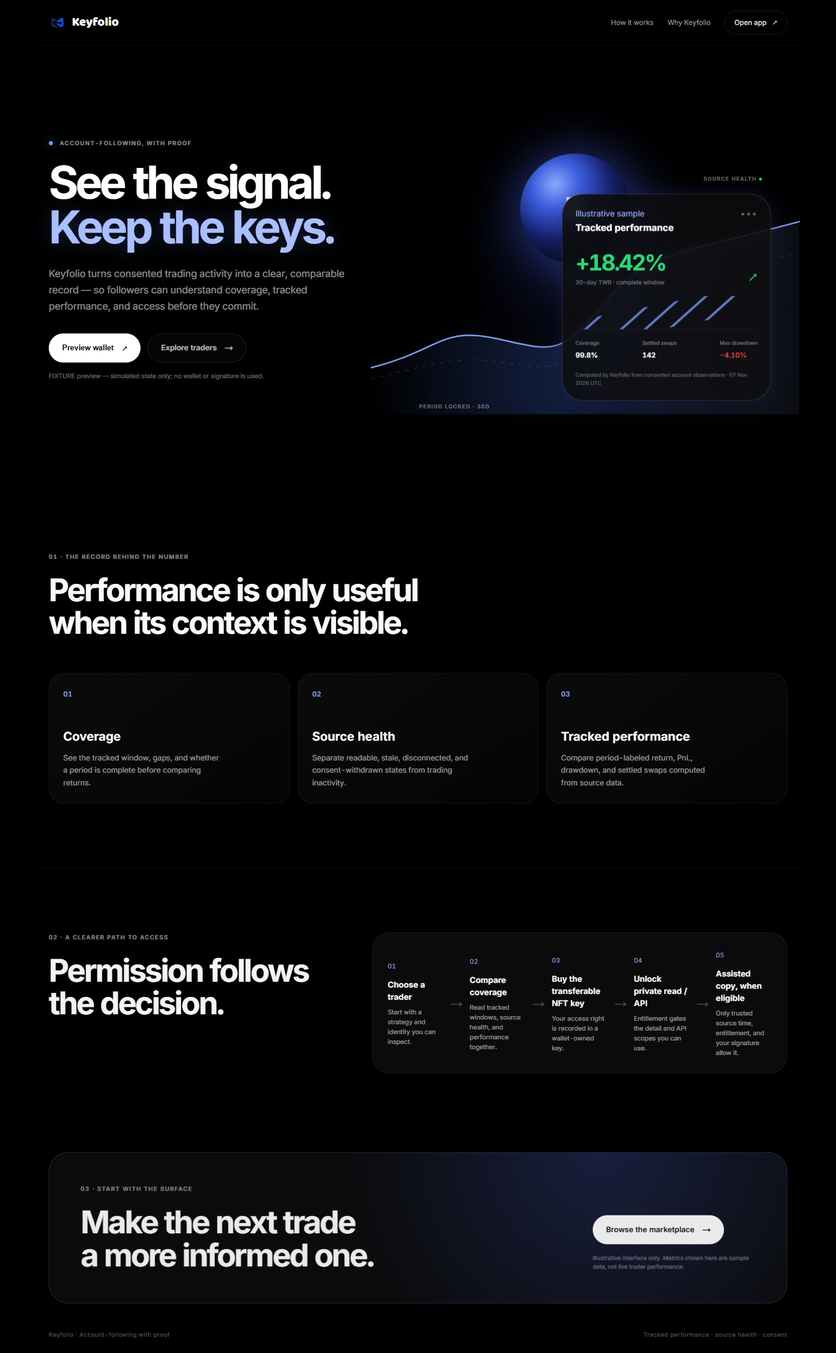
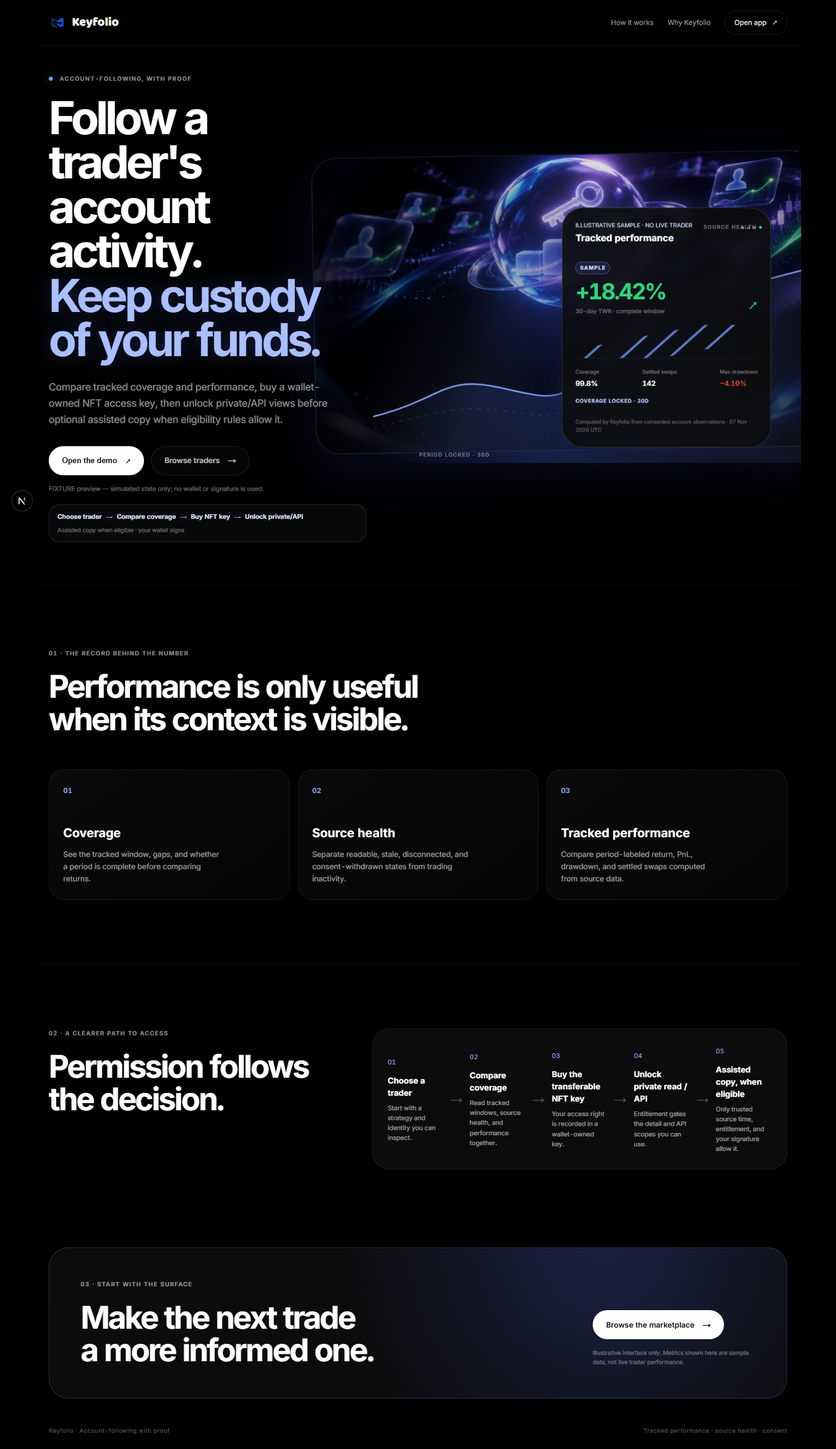
feat(landing): revise hero story and motion for judge clarity

diff --git a/apps/landing/src/components/LandingClient.tsx b/apps/landing/src/components/LandingClient.tsx
@@ -1,12 +1,13 @@
 'use client';
 
-import { useEffect, useState } from 'react';
+import { useEffect, useRef, useState } from 'react';
 import { getLandingWalletState, type LandingMode } from './landingContract';
 import { useWallet } from '../wallet/WalletContext';
 
 export function LandingClient({ mode, configError }: { mode: LandingMode; configError: string | null }) {
   const wallet = useWallet();
   const [fixturePreview, setFixturePreview] = useState(false);
+  const heroVisualRef = useRef<HTMLDivElement>(null);
   useEffect(() => {
     document.querySelector('.landing')?.classList.add('motion-ready');
     const nodes = Array.from(document.querySelectorAll<HTMLElement>('.landing .reveal'));
@@ -18,6 +19,40 @@ export function LandingClient({ mode, configError }: { mode: LandingMode; config
     return () => {
       observer.disconnect();
       document.querySelector('.landing')?.classList.remove('motion-ready');
+    };
+  }, []);
+  useEffect(() => {
+    const visual = heroVisualRef.current;
+    if (!visual || window.matchMedia('(prefers-reduced-motion: reduce)').matches) return;
+    let frame = 0;
+    let pointerX = 0;
+    let pointerY = 0;
+    let scrollY = window.scrollY;
+    const apply = () => {
+      frame = 0;
+      const rect = visual.getBoundingClientRect();
+      const centerX = rect.left + rect.width / 2;
+      const centerY = rect.top + rect.height / 2;
+      const x = Math.max(-1, Math.min(1, (pointerX - centerX) / Math.max(rect.width / 2, 1)));
+      const y = Math.max(-1, Math.min(1, (pointerY - centerY) / Math.max(rect.height / 2, 1)));
+      const scrollOffset = Math.max(-1, Math.min(1, (scrollY - window.innerHeight * 0.12) / Math.max(window.innerHeight, 1)));
+      visual.style.setProperty('--hero-parallax-x', `${(x * 10).toFixed(2)}px`);
+      visual.style.setProperty('--hero-parallax-y', `${(y * 8 - scrollOffset * 5).toFixed(2)}px`);
+      visual.style.setProperty('--hero-parallax-rotate', `${(x * 1.2).toFixed(2)}deg`);
+    };
+    const schedule = () => { if (!frame) frame = window.requestAnimationFrame(apply); };
+    const onPointerMove = (event: PointerEvent) => { pointerX = event.clientX; pointerY = event.clientY; schedule(); };
+    const onPointerLeave = () => { pointerX = window.innerWidth / 2; pointerY = window.innerHeight / 2; schedule(); };
+    const onScroll = () => { scrollY = window.scrollY; schedule(); };
+    visual.addEventListener('pointermove', onPointerMove, { passive: true });
+    visual.addEventListener('pointerleave', onPointerLeave, { passive: true });
+    window.addEventListener('scroll', onScroll, { passive: true });
+    onPointerLeave();
+    return () => {
+      if (frame) window.cancelAnimationFrame(frame);
+      visual.removeEventListener('pointermove', onPointerMove);
+      visual.removeEventListener('pointerleave', onPointerLeave);
+      window.removeEventListener('scroll', onScroll);
     };
   }, []);
   const walletState = getLandingWalletState(mode, { connecting: wallet.connecting, accountId: wallet.accountId, initError: wallet.initError, fixturePreview, configError });
@@ -43,13 +78,14 @@ export function LandingClient({ mode, configError }: { mode: LandingMode; config
       <section id="top" className="landing-hero" aria-labelledby="landing-title">
         <div className="hero-copy reveal reveal-one">
           <p className="landing-kicker"><span className="kicker-dot" aria-hidden="true" /> Account-following, with proof</p>
-          <h1 id="landing-title">See the signal.<br /><span>Keep the keys.</span></h1>
-          <p className="hero-lede">Keyfolio turns consented trading activity into a clear, comparable record — so followers can understand coverage, tracked performance, and access before they commit.</p>
-          <div className="hero-actions"><button className="landing-btn landing-btn-primary" type="button" onClick={handleConnect} disabled={!walletState.canAct} aria-describedby="wallet-state">{walletState.label}<span aria-hidden="true">↗</span></button><a className="landing-btn landing-btn-quiet" href={appHref}>Explore traders <span aria-hidden="true">→</span></a></div>
+          <h1 id="landing-title">Follow a trader's account activity.<br /><span>Keep custody of your funds.</span></h1>
+          <p className="hero-lede">Compare tracked coverage and performance, buy a wallet-owned NFT access key, then unlock private/API views before optional assisted copy when eligibility rules allow it.</p>
+          <div className="hero-actions"><button className="landing-btn landing-btn-primary" type="button" onClick={handleConnect} disabled={!walletState.canAct} aria-describedby="wallet-state">{mode === 'FIXTURE' ? (fixturePreview ? 'Demo opened' : 'Open the demo') : walletState.label}<span aria-hidden="true">↗</span></button><a className="landing-btn landing-btn-quiet" href={appHref}>Browse traders <span aria-hidden="true">→</span></a></div>
           <p id="wallet-state" className="wallet-state" role="status">{walletState.message}</p>
+          <div className="hero-scenario" aria-label="Keyfolio decision path"><span>Choose trader</span><i aria-hidden="true">→</i><span>Compare coverage</span><i aria-hidden="true">→</i><span>Buy NFT key</span><i aria-hidden="true">→</i><span>Unlock private/API</span><small>Assisted copy when eligible · your wallet signs</small></div>
           {mode === 'TESTNET' && wallet.accountId ? <button className="wallet-signout" type="button" onClick={() => void wallet.signOut()}>Sign out</button> : null}
         </div>
-        <div className="hero-visual reveal reveal-two" aria-label="Illustrative tracked performance card"><div className="orb-aura" aria-hidden="true" /><div className="orb-core" aria-hidden="true"><span>K</span></div><svg className="equity-ribbon" viewBox="0 0 720 360" role="img" aria-label="Illustrative equity ribbon rising over a tracked window"><defs><linearGradient id="ribbon-fill" x1="0" x2="1"><stop offset="0" stopColor="#4a7dff" stopOpacity="0" /><stop offset=".5" stopColor="#4a7dff" stopOpacity=".28" /><stop offset="1" stopColor="#9cb7ff" stopOpacity=".08" /></linearGradient></defs><path d="M20 286 C130 258 130 220 220 240 S320 268 390 184 S500 108 700 54 L700 360 L20 360Z" fill="url(#ribbon-fill)" /><path d="M20 286 C130 258 130 220 220 240 S320 268 390 184 S500 108 700 54" fill="none" stroke="#8aa9ff" strokeWidth="2.5" strokeLinecap="round" /><path d="M20 304 C120 280 160 266 232 278 S330 290 404 222 S520 148 700 102" fill="none" stroke="#fff" strokeOpacity=".18" strokeWidth="1" strokeDasharray="5 9" /></svg><article className="tracked-card"><div className="tracked-card-head"><div><p className="eyebrow">Illustrative sample</p><h2>Tracked performance</h2></div><span className="card-menu" aria-hidden="true">•••</span></div><div className="tracked-main"><div><span className="tracked-value">+18.42%</span><span className="tracked-period">30-day TWR · complete window</span></div><span className="tracked-up">↗</span></div><div className="mini-chart" aria-hidden="true"><span className="mini-line" /></div><dl className="tracked-stats"><div><dt>Coverage</dt><dd>99.8%</dd></div><div><dt>Settled swaps</dt><dd>142</dd></div><div><dt>Max drawdown</dt><dd className="pnl-down">−4.10%</dd></div></dl><p className="card-foot">Computed by Keyfolio from consented account observations · 07 Nov 2026 UTC</p></article><span className="visual-label label-top">SOURCE HEALTH <b>●</b></span><span className="visual-label label-bottom">PERIOD LOCKED · 30D</span></div>
+        <div ref={heroVisualRef} className="hero-visual reveal reveal-two" aria-label="Illustrative tracked performance card over generated Keyfolio visual"><div className="hero-art-frame"><img className="hero-art" src="/hero-keyfolio.png" alt="Illustrative Keyfolio key, trader profiles, and tracked market paths" width="1672" height="941" fetchPriority="high" decoding="async" /><span className="hero-art-sheen" aria-hidden="true" /></div><div className="orb-aura" aria-hidden="true" /><svg className="equity-ribbon" viewBox="0 0 720 360" role="img" aria-label="Illustrative equity ribbon rising over a tracked window"><defs><linearGradient id="ribbon-fill" x1="0" x2="1"><stop offset="0" stopColor="#4a7dff" stopOpacity="0" /><stop offset=".5" stopColor="#4a7dff" stopOpacity=".28" /><stop offset="1" stopColor="#9cb7ff" stopOpacity=".08" /></linearGradient></defs><path d="M20 286 C130 258 130 220 220 240 S320 268 390 184 S500 108 700 54 L700 360 L20 360Z" fill="url(#ribbon-fill)" /><path d="M20 286 C130 258 130 220 220 240 S320 268 390 184 S500 108 700 54" fill="none" stroke="#8aa9ff" strokeWidth="2.5" strokeLinecap="round" /><path d="M20 304 C120 280 160 266 232 278 S330 290 404 222 S520 148 700 102" fill="none" stroke="#fff" strokeOpacity=".18" strokeWidth="1" strokeDasharray="5 9" /></svg><article className="tracked-card"><div className="tracked-card-head"><div><p className="eyebrow sample-label">ILLUSTRATIVE SAMPLE · NO LIVE TRADER</p><h2>Tracked performance</h2></div><span className="card-menu" aria-hidden="true">•••</span></div><div className="tracked-main"><div><span className="sample-badge">SAMPLE</span><span className="tracked-value">+18.42%</span><span className="tracked-period">30-day TWR · complete window</span></div><span className="tracked-up">↗</span></div><div className="mini-chart" aria-hidden="true"><span className="mini-line" /></div><dl className="tracked-stats"><div><dt>Coverage</dt><dd>99.8%</dd></div><div><dt>Settled swaps</dt><dd>142</dd></div><div><dt>Max drawdown</dt><dd className="pnl-down">−4.10%</dd></div></dl><div className="scenario-motion" aria-label="Illustrative product state sequence"><span className="motion-state source-state"><b>●</b> SOURCE OBSERVING</span><span className="motion-state coverage-state">COVERAGE LOCKED · 30D</span><span className="motion-state key-state">ACCESS KEY · PRIVATE/API UNLOCKED</span></div><p className="card-foot">Computed by Keyfolio from consented account observations · 07 Nov 2026 UTC</p></article><span className="visual-label label-top">SOURCE HEALTH <b>●</b></span><span className="visual-label label-bottom">PERIOD LOCKED · 30D</span></div>
       </section>
       <section id="trust" className="landing-section intro-section reveal reveal-three" aria-labelledby="measure-title"><div className="section-heading"><p className="landing-kicker">01 · The record behind the number</p><h2 id="measure-title">Performance is only useful<br />when its context is visible.</h2></div><div className="measure-grid"><article><span className="measure-index">01</span><h3>Coverage</h3><p>See the tracked window, gaps, and whether a period is complete before comparing returns.</p></article><article><span className="measure-index">02</span><h3>Source health</h3><p>Separate readable, stale, disconnected, and consent-withdrawn states from trading inactivity.</p></article><article><span className="measure-index">03</span><h3>Tracked performance</h3><p>Compare period-labeled return, PnL, drawdown, and settled swaps computed from source data.</p></article></div></section>
       <section id="how-it-works" className="landing-section access-section reveal reveal-four" aria-labelledby="access-title"><div className="section-heading"><p className="landing-kicker">02 · A clearer path to access</p><h2 id="access-title">Permission follows<br />the decision.</h2></div><div className="access-flow"><div className="flow-step"><span>01</span><strong>Choose a trader</strong><p>Start with a strategy and identity you can inspect.</p></div><div className="flow-connector" aria-hidden="true">→</div><div className="flow-step"><span>02</span><strong>Compare coverage</strong><p>Read tracked windows, source health, and performance together.</p></div><div className="flow-connector" aria-hidden="true">→</div><div className="flow-step"><span>03</span><strong>Buy the transferable NFT key</strong><p>Your access right is recorded in a wallet-owned key.</p></div><div className="flow-connector" aria-hidden="true">→</div><div className="flow-step"><span>04</span><strong>Unlock private read / API</strong><p>Entitlement gates the detail and API scopes you can use.</p></div><div className="flow-connector" aria-hidden="true">→</div><div className="flow-step"><span>05</span><strong>Assisted copy, when eligible</strong><p>Only trusted source time, entitlement, and your signature allow it.</p></div></div></section>

diff --git a/apps/landing/src/app/globals.css b/apps/landing/src/app/globals.css
@@ -41,6 +41,10 @@ a { color:inherit; text-decoration:none; }
 .hero-copy h1 span { color: #aabfff; text-shadow: 0 0 34px rgba(91,124,255,.25); }
 .hero-lede { max-width: 520px; margin: 28px 0 0; color: var(--ink55); font-size: 17px; line-height: 1.65; letter-spacing: -.01em; }
 .hero-actions { display: flex; gap: 12px; flex-wrap: wrap; margin-top: 32px; }
+.hero-scenario { display: flex; flex-wrap: wrap; align-items: center; gap: 7px; max-width: 620px; margin-top: 18px; padding: 12px 14px; border: 1px solid rgba(151,170,255,.18); border-radius: 18px; background: rgba(12,12,13,.72); color: var(--ink70); font-size: 11px; line-height: 16px; }
+.hero-scenario span { color: #dce5ff; font-weight: 650; }
+.hero-scenario i { color: #829bff; font-style: normal; }
+.hero-scenario small { flex-basis: 100%; color: var(--ink38); font-size: 10px; }
 .landing-btn { min-height: 50px; display: inline-flex; align-items: center; justify-content: center; gap: 14px; padding: 0 22px; border-radius: 30px; font-size: 13px; font-weight: 600; border: 1px solid transparent; transition: transform .18s ease-out, background .18s ease-out, border-color .18s ease-out, opacity .18s ease-out; }
 .landing-btn:hover { transform: translateY(-2px); }
 .landing-btn:disabled { cursor: not-allowed; opacity: .58; transform: none; }
@@ -50,14 +54,19 @@ a { color:inherit; text-decoration:none; }
 .landing-btn-quiet:hover { border-color: rgba(255,255,255,.2); background: rgba(255,255,255,.06); }
 .wallet-state { min-height: 18px; margin: 14px 0 0; color: var(--ink38); font-size: 11px; line-height: 18px; }
 .wallet-signout { border: 0; padding: 0; background: none; color: var(--ink70); font: inherit; font-size: 11px; text-decoration: underline; cursor: pointer; }
-.hero-visual { min-height: 540px; position: relative; isolation: isolate; }
+.hero-visual { --hero-parallax-x: 0px; --hero-parallax-y: 0px; --hero-parallax-rotate: 0deg; min-height: 540px; position: relative; isolation: isolate; }
+.hero-art-frame { position: absolute; inset: 2% -10% 5% -15%; overflow: hidden; border: 1px solid rgba(151,170,255,.18); border-radius: 42px; background: #070817; box-shadow: 0 30px 90px rgba(27,38,121,.24), inset 0 0 0 1px rgba(255,255,255,.035); transform: translate3d(var(--hero-parallax-x), var(--hero-parallax-y), 0) rotate(var(--hero-parallax-rotate)) scale(1.015); will-change: transform; }
+.hero-art-frame::after { content: ''; position: absolute; inset: 0; pointer-events: none; background: linear-gradient(90deg, rgba(0,0,0,.86) 0%, rgba(0,0,0,.46) 21%, rgba(2,4,24,.08) 52%, rgba(3,3,14,.34) 100%), linear-gradient(180deg, rgba(0,0,0,.06) 0%, rgba(0,0,0,.04) 48%, rgba(0,0,0,.82) 100%); }
+.hero-art { display: block; width: 100%; height: 100%; object-fit: cover; object-position: 50% 33%; transform: scale(1.06) translateZ(0); filter: saturate(.92) contrast(1.04); }
+.hero-art-sheen { position: absolute; z-index: 1; inset: 0; pointer-events: none; background: linear-gradient(115deg, transparent 24%, rgba(177,190,255,.14) 42%, transparent 58%); mix-blend-mode: screen; opacity: .5; transform: translate3d(calc(var(--hero-parallax-x) * -.35), calc(var(--hero-parallax-y) * -.35), 0); will-change: transform; }
 .orb-aura { position: absolute; width: 480px; height: 480px; top: 4%; left: 16%; border-radius: 50%; background: radial-gradient(circle, rgba(65,100,255,.4) 0, rgba(40,58,168,.2) 32%, rgba(14,17,49,.06) 62%, transparent 72%); filter: blur(14px); transform: translateZ(0); animation: aura-breathe 7s ease-in-out infinite alternate; }
-.orb-core { position: absolute; width: 190px; height: 190px; top: 15%; left: 34%; display: grid; place-items: center; border-radius: 50%; color: rgba(255,255,255,.88); font-size: 52px; font-weight: 700; background: radial-gradient(circle at 32% 28%, #8eaaff 0, #3e61e5 22%, #1d2b8c 48%, #0b103d 76%, #050616 100%); box-shadow: 0 0 80px rgba(76,104,255,.5), inset -18px -24px 50px rgba(0,0,0,.5); transform: translateZ(0); animation: orb-float 6s ease-in-out infinite alternate; }
-.equity-ribbon { position: absolute; width: 112%; height: auto; top: 27%; left: -6%; opacity: .9; transform: translateZ(0); filter: drop-shadow(0 0 20px rgba(88,125,255,.18)); }
+.equity-ribbon { position: absolute; z-index: 1; width: 112%; height: auto; top: 27%; left: -6%; opacity: .9; transform: translate3d(calc(var(--hero-parallax-x) * -.5), calc(var(--hero-parallax-y) * -.5), 0) translateZ(0); filter: drop-shadow(0 0 20px rgba(88,125,255,.18)); will-change: transform; }
 .tracked-card { position: absolute; z-index: 2; right: 4%; bottom: 6%; width: min(360px, 72%); padding: 22px; border-radius: 36px; border: 1px solid rgba(255,255,255,.14); background: rgba(12,12,13,.9); box-shadow: 0 28px 70px rgba(0,0,0,.48), 0 0 34px rgba(77,102,255,.18); backdrop-filter: blur(10px); transform: translateZ(0); animation: card-float 7s ease-in-out infinite alternate; }
 .tracked-card-head, .tracked-main, .tracked-stats { display: flex; justify-content: space-between; gap: 12px; }
 .tracked-card h2 { margin: 3px 0 0; font-size: 16px; line-height: 22px; }
 .tracked-card .eyebrow { margin: 0; color: #93aaff; }
+.sample-label { font-size: 10px !important; color: #c9d5ff !important; }
+.sample-badge { display: inline-flex; align-items: center; min-height: 20px; margin-bottom: 8px; padding: 3px 7px; border: 1px solid rgba(151,170,255,.28); border-radius: 999px; color: #c9d5ff; background: rgba(82,108,230,.16); font-size: 9px; font-weight: 800; letter-spacing: .12em; }
 .card-menu { color: var(--ink38); letter-spacing: 2px; }
 .tracked-main { align-items: flex-end; margin-top: 28px; }
 .tracked-value { display: block; color: var(--up); font-size: 38px; line-height: 42px; letter-spacing: -.06em; font-weight: 700; }
@@ -70,6 +79,15 @@ a { color:inherit; text-decoration:none; }
 .tracked-stats dt { color: var(--ink38); font-size: 9px; }
 .tracked-stats dd { margin: 0; font-size: 12px; font-weight: 600; }
 .tracked-stats .pnl-down { color: var(--down); }
+.scenario-motion { position: relative; min-height: 18px; margin-top: 14px; overflow: hidden; color: #c9d5ff; font-size: 9px; font-weight: 700; letter-spacing: .06em; }
+.motion-state { position: absolute; inset: 0; display: block; opacity: 0; animation-duration: 4.5s; animation-timing-function: cubic-bezier(.2,0,0,1); animation-iteration-count: 1; animation-fill-mode: both; }
+.source-state { color: var(--ink55); animation-name: motion-source-state; }
+.source-state b { color: #e8c64a; }
+.coverage-state { color: #b8c5ff; animation-name: motion-coverage-state; }
+.key-state { color: var(--up); animation-name: motion-key-state; }
+@keyframes motion-source-state { 0%, 3% { opacity: 0; transform: translateY(8px); } 9%, 29% { opacity: 1; transform: translateY(0); } 36%, 100% { opacity: 0; transform: translateY(-6px); } }
+@keyframes motion-coverage-state { 0%, 30% { opacity: 0; transform: translateY(8px); } 38%, 62% { opacity: 1; transform: translateY(0); } 70%, 100% { opacity: 0; transform: translateY(-6px); } }
+@keyframes motion-key-state { 0%, 62% { opacity: 0; transform: translateY(8px); } 70%, 100% { opacity: 1; transform: translateY(0); } }
 .card-foot { margin: 18px 0 0; color: var(--ink30); font-size: 9px; line-height: 14px; }
 .visual-label { position: absolute; z-index: 3; color: var(--ink38); font-size: 9px; letter-spacing: .14em; font-weight: 600; }
 .visual-label b { color: var(--up); }
@@ -87,9 +105,9 @@ a { color:inherit; text-decoration:none; }
 @keyframes card-float { from { transform: translate3d(0, 5px, 0); } to { transform: translate3d(0, -7px, 0); } }
 @keyframes orb-float { from { transform: translate3d(0, 7px, 0); } to { transform: translate3d(0, -9px, 0); } }
 @keyframes aura-breathe { from { opacity: .7; transform: scale(.96) translateZ(0); } to { opacity: 1; transform: scale(1.04) translateZ(0); } }
-@media (prefers-reduced-motion: reduce) { *, *::before, *::after { animation-duration: .01ms !important; animation-iteration-count: 1 !important; scroll-behavior: auto !important; transition-duration: .01ms !important; } .landing-btn:hover { transform: none; } }
+@media (prefers-reduced-motion: reduce) { *, *::before, *::after { animation-duration: .01ms !important; animation-iteration-count: 1 !important; scroll-behavior: auto !important; transition-duration: .01ms !important; } .landing-btn:hover { transform: none; } .hero-art-frame { transform: none; } .hero-art-sheen { transform: none; } .equity-ribbon { transform: translateZ(0); } .scenario-motion .source-state { opacity: 1; transform: none; } .scenario-motion .coverage-state, .scenario-motion .key-state { opacity: 0; transform: none; } }
 @media (max-width: 1024px) { .landing-hero { grid-template-columns: 1fr; min-height: auto; padding-top: 68px; }.hero-copy { max-width: 720px; }.hero-visual { min-height: 510px; margin-top: -10px; }.access-section { grid-template-columns: 1fr; gap: 42px; }.access-flow { grid-template-columns: repeat(2, 1fr); }.flow-connector { display: none; } }
-@media (max-width: 640px) { .landing-nav { padding:16px 0; }.landing-nav nav a:not(.nav-cta) { display:none; }.landing-nav nav { gap:0; }.landing-hero { padding:42px 0 54px; }.hero-copy h1 { font-size: clamp(44px, 14vw, 62px); }.hero-lede { font-size:15px; line-height:1.55; }.hero-actions { display:grid; grid-template-columns:1fr; }.landing-btn { width:100%; }.hero-visual { min-height:390px; margin-top:12px; }.orb-aura { width:340px; height:340px; top:1%; left:4%; }.orb-core { width:132px; height:132px; left:31%; top:16%; font-size:36px; }.equity-ribbon { top:27%; width:130%; left:-15%; }.tracked-card { right:2%; bottom:2%; width:86%; padding:18px; border-radius:28px; }.tracked-value { font-size:31px; }.visual-label { display:none; }.landing-section { padding:76px 0; }.measure-grid { grid-template-columns:1fr; margin-top:34px; }.measure-grid article { min-height:auto; padding:21px; }.measure-grid h3 { margin-top:26px; }.access-flow { grid-template-columns:1fr; gap:24px; padding:22px; }.landing-cta { display:block; margin:0; padding:34px 22px; border-radius:28px; }.cta-actions { margin-top:28px; max-width:none; }.landing-footer { flex-direction:column; padding:24px 0; } }
+@media (max-width: 640px) { .landing-nav { padding:16px 0; }.landing-nav nav a:not(.nav-cta) { display:none; }.landing-nav nav { gap:0; }.landing-hero { padding:42px 0 54px; }.hero-copy h1 { font-size: clamp(44px, 14vw, 62px); }.hero-lede { font-size:15px; line-height:1.55; }.hero-actions { display:grid; grid-template-columns:1fr; }.landing-btn { width:100%; }.hero-scenario { font-size: 10px; gap: 5px; padding: 10px 11px; }.hero-scenario small { font-size: 9px; }.hero-visual { min-height:390px; margin-top:12px; }.hero-art-frame { inset: 2% -18% 4% -18%; border-radius: 30px; }.hero-art { object-position: 50% 31%; transform: scale(1.15) translateZ(0); }.orb-aura { width:340px; height:340px; top:1%; left:4%; }.equity-ribbon { top:27%; width:130%; left:-15%; }.tracked-card { right:2%; bottom:2%; width:86%; padding:18px; border-radius:28px; }.tracked-value { font-size:31px; }.visual-label { display:none; }.landing-section { padding:76px 0; }.measure-grid { grid-template-columns:1fr; margin-top:34px; }.measure-grid article { min-height:auto; padding:21px; }.measure-grid h3 { margin-top:26px; }.access-flow { grid-template-columns:1fr; gap:24px; padding:22px; }.landing-cta { display:block; margin:0; padding:34px 22px; border-radius:28px; }.cta-actions { margin-top:28px; max-width:none; }.landing-footer { flex-direction:column; padding:24px 0; } }
 /* Scroll reveal is stateful: without JS the page stays fully readable. */
 .landing .reveal { opacity: 1; }
 .landing.motion-ready .reveal { opacity: 0; }

diff --git a/docs/evidence/KF-08/landing-judge-review.md b/docs/evidence/KF-08/landing-judge-review.md
@@ -1,0 +1,178 @@
+# KF-08 Landing Judge Review
+
+**Review type:** blind senior hackathon landing-page judge review  
+**Decision:** **REVISE** before demo submission  
+**Review date:** 2026-11-10 (Asia/Jakarta)  
+**Scope:** `apps/landing`, extracted frames from the three supplied WebM recordings, the Xorr direct-capture PNGs in `docs/evidence/KF-08/`, `DESIGN.md`, and `docs/decisions.md`.
+
+## Judge verdict
+
+Keyfolio has a credible visual direction and a strong focal hero asset, but the landing currently sells the *feeling* of a tracked-performance product before it explains the complete product decision. A judge can see that it is polished, dark, and finance-oriented; they cannot reliably infer in the first five seconds that this is account-following with a wallet-owned access key, private/API entitlement, and optional follower-signed assisted copy. The hero is also held back by a measurable capture defect: the supplied motion recording is blank for roughly the first two seconds and blurred around the third second before the fully readable hero arrives.
+
+This is a **revision blocker**, not a visual-quality failure. The page should be kept and tightened rather than rejected outright.
+
+## Evidence and decoding
+
+All three supplied recordings decoded locally with a temporary FFmpeg binary obtained through `imageio-ffmpeg`; no source files were changed by that setup.
+
+| Recording | SHA-256 | Decoded stream | Duration | Frame observations |
+|---|---|---|---:|---|
[3 lines of base64/hex data omitted]
+
+The first extracted frame of Luora is also blank white, so the blank opening may be capture/page-readiness behavior rather than intended page design. It is nevertheless part of the supplied demo evidence and must be treated as a judge-visible risk until eliminated or replaced with a ready-state capture.
+
+No video was undecodable. The shell did not have `ffmpeg`/`ffprobe` preinstalled; the equivalent local decode and frame extraction succeeded with the temporary FFmpeg binary. The requested `docs/DESIGN.md` path does not exist in this checkout; the root `DESIGN.md` was used. No separate screenshot file for the user reference was present beyond the checked-in Xorr captures, so comparison to that context is limited to those captures and the supplied Luora recording.
+
+## Scorecard
+
+Scores are out of 10 for a hackathon judge watching the landing without repository context.
+
+| Criterion | Score | Judge observation |
+|---|---:|---|
+| First-five-second hook | **5** | The final hero is memorable, but the motion capture spends ~0–2 s blank and ~3 s blurred. The initial headline is poetic and only indirectly says what the product does. |
+| Problem clarity | **6** | “See the signal. Keep the keys.” is strong brand copy, but the problem (opaque trader activity and custody anxiety) is not explicit enough above the fold. |
+| Curiosity / retention | **7** | The key/globe artwork and floating card create a reason to continue. Retention falls when the page holds the same hero for several seconds without a meaningful state change. |
+| Scenario explanation | **4** | The five-step flow exists, but it appears after the hero and context section. The buyer journey is not understood during the first screen. |
+| Visual hierarchy | **8** | Clear 70/20/10 composition, strong type scale, one focal card, and good dark/cobalt contrast. The card and artwork compete slightly with the headline on mobile. |
+| Focal 3D / illustrative asset | **8** | The generated key/trader/globe artwork is distinctive and ownable. It reads as a product world rather than a generic dashboard screenshot. |
+| Motion cadence / meaning | **4** | The hero card/aura loops are attractive but decorative; the supplied capture does not show motion that explains navigation, focus, loading, or data state. The return to the hero around 14 s reads as capture looping rather than narrative closure. |
+| CTA / wallet clarity | **6** | There are two clear buttons and a fixture status line. “Preview wallet” in the captured fixture state is less decisive than a judge-facing “Open demo” or “Connect NEAR wallet”; the actual wallet mode is not self-evident from the hero alone. |
+| Mobile composition | **6** | The checked-in 390 px capture has no horizontal overflow, readable copy, and a first-viewport CTA. The large image/card occupies most of the next viewport and pushes the scenario below the fold. |
+| Reduced-motion fallback | **7** | The reduced capture keeps the hero and copy legible and removes the nonessential animated feel. The fallback still relies on long scroll progression, so the product story is not faster for a motion-sensitive judge. |
+| Honesty of sample metrics | **6** | “Illustrative sample” and the footer disclaimer are present. The dominant `+18.42%`, `99.8%`, and `142` still look like a live success claim at a glance, especially in a fast demo. |
+| Hackathon judge impact | **6** | Visually above average and memorable, but the product proof and demo path are under-explained. A judge may remember the artwork while misclassifying Keyfolio as a generic trading dashboard. |
+
+**Indicative mean: 6.1/10.** The recommendation is **REVISE**, with the first-five-second readiness and story placement treated as blockers.
+
+## Timestamped review notes
+
+### Keyfolio normal-motion recording
+
+- **0.0–2.0 s:** extracted frames are all-white/blank. This is the largest concrete demo risk. Whether it comes from browser readiness, capture timing, or the page's initial state, the judge experiences an empty opening.
+- **~3.0 s:** the navigation is present and the hero copy is visible but heavily blurred. The blur makes the first impression feel like a loading transition without a loading explanation.
+- **~4.0 s:** the hero becomes readable. The headline, key/globe artwork, equity ribbon, and tracked card form a strong single composition.
+- **~5.0–7.0 s:** the hero remains essentially the same. The card is legible, but the movement shown in the recording does not communicate what is changing in the tracked data or which user action is being demonstrated.
+- **~10.0 s:** “Performance is only useful when its context is visible” and the three cards (Coverage, Source health, Tracked performance) appear. This is the clearest explanation of the product's trust proposition, but it arrives too late to repair an ambiguous opening.
+- **~11.0–12.0 s:** “Permission follows the decision” and the five-step access flow are visible. This is the missing scenario explanation a judge needs, but the text is small at capture scale and the flow is below the first narrative beat.
+- **~13.0 s:** the final “Make the next trade a more informed one” CTA is visible. It is a good close, but the capture then returns to the hero by ~14 s, which weakens the sense of a completed story.
+
+### Reduced-motion recording
+
+- **~2.0–5.0 s:** the full hero is stable and readable. This is better for immediate comprehension than the normal-motion capture because the initial visual is not animated into place.
+- **~8.0 s:** the context cards and permission heading are visible. The page remains usable, but reduced motion does not change the information order; it only removes movement.
+- The fallback honors the design contract's reduced-motion requirement. It does not yet provide a condensed, faster story for someone who prefers reduced motion.
+
+### Luora comparison
+
+- **~3.0 s:** Luora uses a dark spatial transition before showing the product surface; the transition has a clear visual destination.
+- **~6.0 s:** the contract graph is the product, not merely decoration. It answers “what do I get?” through the artifact itself.
+- **~9.0 s:** “You can Run a scenario with one click” gives a concrete action and a visible result model. This is a stronger scenario beat than Keyfolio's abstract “See the signal.”
+- **~12.0 s:** the CLI section turns the visual into evidence. Luora repeatedly moves from promise to inspectable artifact; Keyfolio currently moves from promise to another explanatory section.
+
+### Xorr comparison
+
+The local Xorr captures establish a high bar for information density and state honesty. The marketplace visibly labels `FIXTURE`, “illustrative sample data,” coverage states, unavailable metrics, and sales-paused conditions. The profile makes period, coverage start, update time, package contents, privacy boundary, and “assisted-copy eligibility” concrete. The checkout shows exact term, price, token, network, storage, and simulated-signing state.
+
+Keyfolio's landing matches Xorr's dark language and rounded containment, and it is visually more distinctive. It does not yet carry the same level of immediate state specificity. The landing card's small disclaimer is technically present, but the visual emphasis is on a positive performance number rather than on the conditions that make that number trustworthy.
+
+## Concrete blockers
+
+1. **Blank/blurred opening in the normal-motion evidence.** A judge can see two empty seconds and one soft-focus second before the product appears.
+2. **Product category is under-specified above the fold.** “Account-following with proof” is present as a kicker, but the headline and lede do not explicitly state trader account activity, NFT access, private/API views, or follower-owned signing.
+3. **The core scenario is below the hero.** Choose trader → compare coverage → buy access key → unlock private/API → assisted copy is only explicit after scrolling.
+4. **Motion does not prove a product action.** Aura breathing, card float, and parallax create polish but do not show tracking, entitlement, or a wallet decision. This conflicts with the design contract's requirement that motion map to navigation, focus, loading, or data state.
+5. **Positive sample metrics dominate the honesty label.** `+18.42%`, `99.8%`, and `142` are the first things the eye reads. “Illustrative sample” is small and does not fully counter the implied claim in a fast judge pass.
+6. **Fixture CTA language is demo-ambiguous.** “Preview wallet” and “Explore traders” are understandable after reading the status line, but a live hackathon judge needs one obvious action and one obvious environment label.
+7. **Mobile makes the artwork the second hero.** The 390 px capture is technically clean, but the card dominates the first scroll and delays the scenario explanation.
+
+## Revision tickets
+
+### KF-08-LJ-01 — Make the first frame ready and readable
+
+**Priority:** blocker  
+**Exact change:** Ensure the captured/served first frame renders the final hero immediately. Remove the initial multi-second blank/blur reveal from the landing entry path; keep any reveal below 300 ms and use a dark ready-state placeholder with the headline and CTA already present while `hero-keyfolio.png` decodes. Preload the hero asset and capture only after the first contentful hero frame is present.  
+**Acceptance observation:** At 0.0–0.5 s, the judge sees the headline, one CTA, the environment label, and the focal artwork; no all-white frame; no multi-second blur.
+
+### KF-08-LJ-02 — Replace abstract hero copy with a two-line product promise
+
+**Priority:** blocker  
+**Exact copy proposal:**
+
+> **Follow a trader's account activity. Keep custody of your funds.**  
+> Compare tracked coverage and performance, buy a wallet-owned access key, and unlock private/API views before you choose to copy.
+
+Retain “See the signal. Keep the keys.” as the visual sub-line or section signature after the explicit promise.  
+**Acceptance observation:** A cold judge can answer “what is this?” and “who signs?” from the first viewport without scrolling.
+
+### KF-08-LJ-03 — Pull the five-step scenario into the hero
+
+**Priority:** blocker  
+**Layout change:** Add a compact four-step rail directly under the hero CTA or as a bottom strip in the hero: `Choose trader → Compare coverage → Buy NFT key → Unlock private/API`. Put `Assisted copy, when eligible` as a final muted note with “your wallet signs.” Keep the detailed five-card section below for the scroll narrative.  
+**Motion change:** On scroll into the strip, illuminate one step at a time with opacity/transform only; each transition must correspond to the step entering the viewport.
+
+### KF-08-LJ-04 — Turn motion into product evidence
+
+**Priority:** high  
+**Exact motion change:** Replace or supplement the idle card float/aura loop with a short 4–5 s sequence: source-health dot changes from `observing` to `complete`, the coverage label locks to `30D`, then the access-key badge appears and points to `Unlock private/API`. Keep parallax as optional cursor response, but it should not be the only visible motion. Stop the sequence after one pass; do not loop back to the hero in the judge capture.
+
+### KF-08-LJ-05 — Make sample honesty impossible to miss
+
+**Priority:** high  
+**Copy/layout change:** Move `ILLUSTRATIVE SAMPLE · NO LIVE TRADER` into the card title row at the same visual weight as “Tracked performance.” Change the main card number to `Example: +18.42%` or pair it with a large `SAMPLE` badge. Keep the calculation/source footnote, but move the positive number one step below the explanatory label. Do not imply that the current page has live trader performance.
+
+### KF-08-LJ-06 — Clarify the demo CTA by environment
+
+**Priority:** high  
+**FIXTURE copy:** `Open the demo` (primary) and `Browse traders` (secondary), with a visible `FIXTURE · simulated wallet · no signature` status.  
+**TESTNET copy:** `Connect NEAR wallet` (primary) and `Browse traders` (secondary).  
+**LIVE behavior:** preserve fail-closed behavior, but explain it in the adjacent status text.  
+**Acceptance observation:** A judge knows exactly which click starts the demo and whether a signature or funds are involved.
+
+### KF-08-LJ-07 — Reduce mobile hero dominance
+
+**Priority:** medium  
+**Layout change at 375/390 px:** Keep the headline, lede, CTA, and a compact 2–3 line scenario rail in the first viewport. Reduce the hero art/card height by roughly 20–25%; move the large metric card below the first scenario strip or collapse it to a single “sample” preview that expands on tap. Preserve the no-overflow result already shown by the local 390 px evidence.
+
+### KF-08-LJ-08 — Create a judge-capture mode
+
+**Priority:** medium  
+**Exact change:** Add a deterministic 12–15 s demo capture path that starts on the ready hero, progresses once through the scenario, and ends on the CTA. It must not depend on a white browser loading frame, an accidental scroll loop, pointer position, or an external wallet. Keep the production page behavior unchanged; this is capture determinism and evidence hygiene.
+
+## Recommended acceptance bar before submission
+
+- Normal-motion capture begins on a fully rendered hero at 0.0–0.5 s.
+- The first viewport states account-following, custody boundary, access key, and the next action.
+- At least one motion beat demonstrates a product state or decision, not only breathing/glow/float.
+- Sample metrics are unmistakably labeled before the eye reaches the number.
+- Fixture, TESTNET, and LIVE CTA language is visible and mode-accurate.
+- 390 px and reduced-motion captures preserve the same story order, with no horizontal overflow.
+- The deterministic judge capture ends on the marketplace/demo CTA without looping back to the hero.
+
+**Final recommendation: REVISE.** The page is visually strong enough to keep, but the current evidence is not ready to present as the primary hackathon landing because the opening readiness defect and the delayed scenario explanation can cost comprehension before a judge reaches the strongest parts.
+
+## Revision pass after judge review (Codex coordinator)
+
+The next implementation pass applied the judge blockers to the production landing:
+
+- first viewport copy now states account-following and custody explicitly;
+- CTA is `Open the demo` in FIXTURE, `Connect NEAR wallet` in TESTNET, and
+  fail-closed in LIVE;
+- a compact first-viewport rail now states `Choose trader → Compare coverage →
+  Buy NFT key → Unlock private/API`, with assisted-copy eligibility and wallet
+  signing called out;
+- the proof card now carries `ILLUSTRATIVE SAMPLE · NO LIVE TRADER` and a visible
+  `SAMPLE` badge before the example number;
+- the proof card includes a single 4.5-second state sequence: source observing →
+  coverage locked → access key/private API unlocked; the sequence does not loop;
+- the hero remains fail-open before hydration, and reduced-motion keeps the static
+  art/scenario readable;
+- mobile uses the compact scenario rail and keeps the hero art/card within the
+  viewport without horizontal overflow.
+
+Re-check evidence after the revision: the landing evidence script reports
+`marketingNav=true`, `appShell=false`, `cta=1`, `scenario=1`, and `overflow=false`
+at 375/390/768/1280/1440px. The full workspace check remains **152/152 tests
+PASS**. A new motion recording is required for the final judge pass; the previous
+recordings remain retained as before-state evidence.

diff --git a/docs/evidence/KF-08/landing-hero-refinement-2026-11-10.md b/docs/evidence/KF-08/landing-hero-refinement-2026-11-10.md
@@ -1,0 +1,40 @@
+# Keyfolio landing hero refinement
+
+Date: 2026-11-10 (Asia/Jakarta)
+
+This iteration responds to the Xorr reference review. The previous landing hero
+used only a CSS orb and ribbon, which made it read like a dashboard marketing
+header. The new hero uses a generated focal artwork with a dark text-safe field,
+then layers the proof card, ribbon and CTA on top.
+
+## Visual source and evidence
+
+- Reference inspected directly at `https://xorr.finance/` with Edge/Playwright:
+  HTTP 200, title `xorr — A bot that trades while you get on with your life`,
+  one hero heading, zero browser console errors in the captured pass.
+- Official Xorr design tokens were also consulted from
+  `https://raw.githubusercontent.com/nickthelegend/xorr-solana/main/ui/mobile-ui/design.md`.
+- REA `rea-agents` was installed globally and Codex setup was aligned. A bounded
+  REA browser scenario against `xorr.finance` was attempted, but the Windows
+  browser provider returned `execution_failure` with incomplete cleanup. No REA
+  result is presented as visual evidence; the direct Playwright capture and
+  official token document remain the sources for this iteration.
+- Generated asset: `apps/landing/public/hero-keyfolio.png`.
[1 lines of base64/hex data omitted]
+
+## Motion contract
+
+- focal artwork moves through pointer/scroll parallax using transform only;
+- hero sheen and ribbon use transform/filter/opacity;
+- existing reveal/card/orb motion remains active;
+- reduced-motion disables nonessential motion and keeps the art readable;
+- image dimensions and crop are explicit to avoid layout shift and horizontal
+  overflow.
+
+## Validation
+
+The landing evidence script reports marketing navigation present, no app sidebar or
+environment banner, CTA visible, and `overflow=false` at 375/390/768/1280/1440px.
+The workspace check after this iteration is **152/152 tests PASS**. The generated
+visual remains illustrative; it does not represent live performance or provider
+access.
